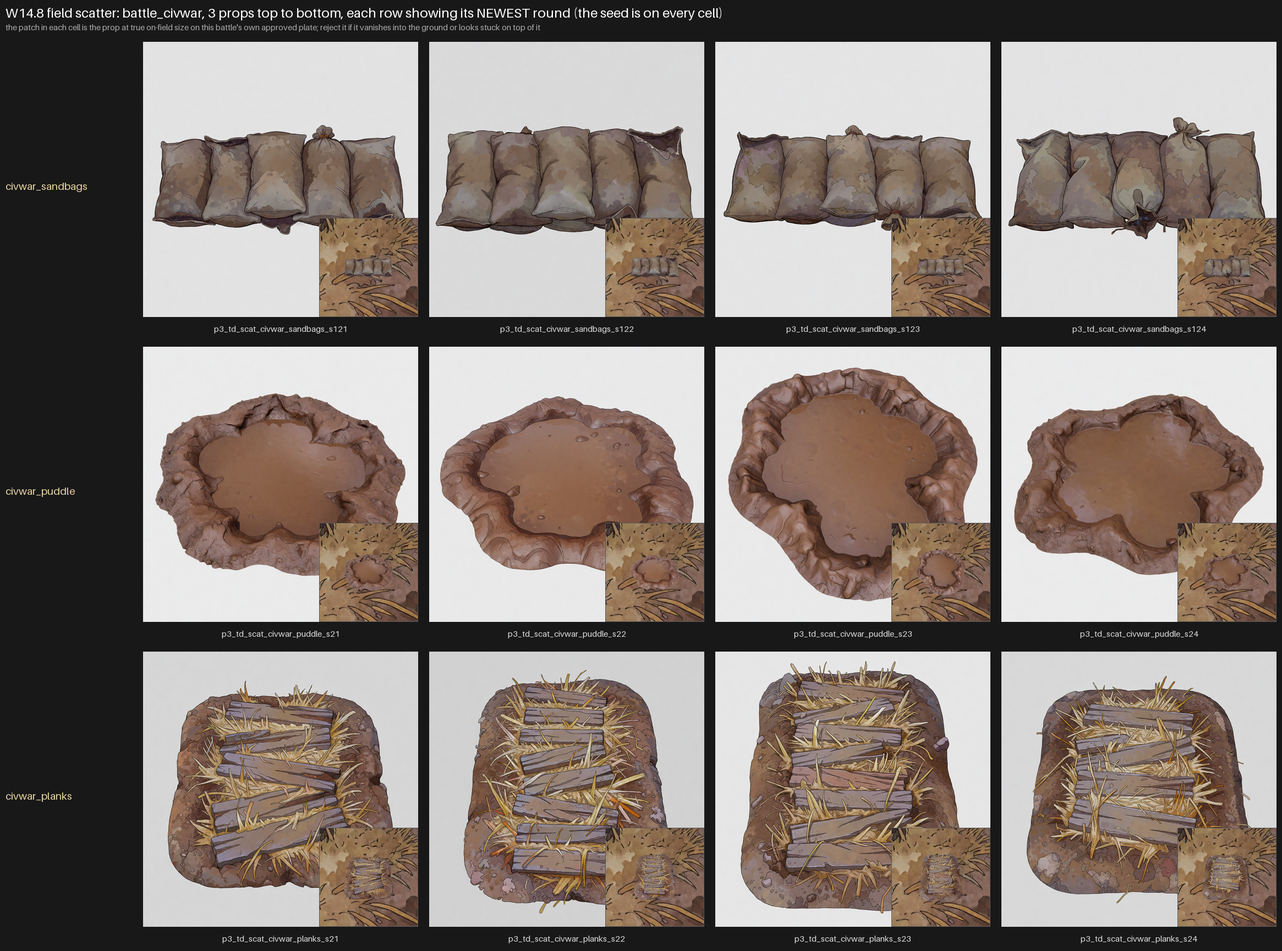
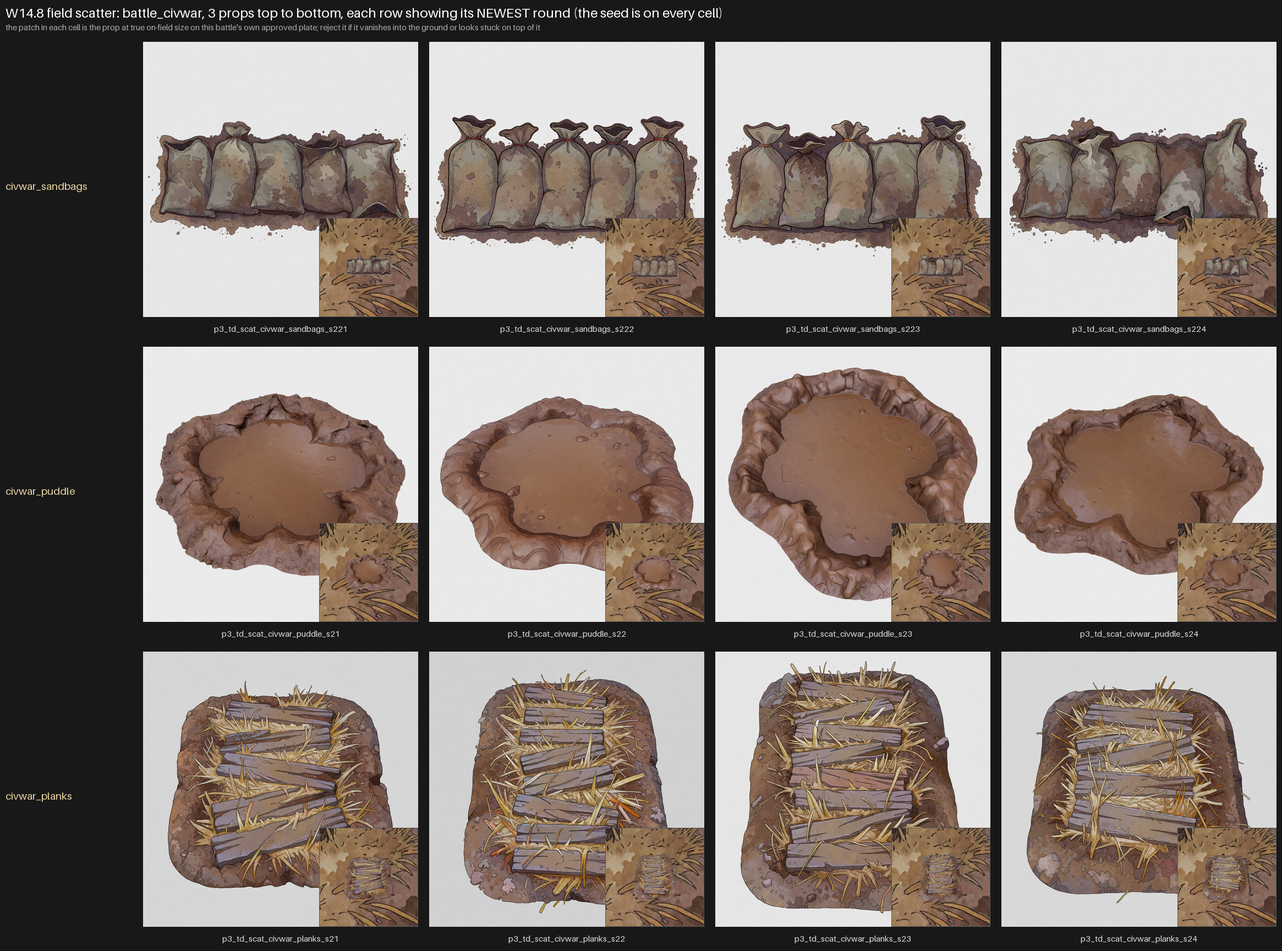
W14.8 scatter rounds 4-5: the subject change lands, and the warm prior surfaces twice
Round 4 applied the human ruling: the four cells that beat three camera strategies
stopped being single objects. The boulder is several mossy stones spread apart in
turf, the log is broken sections of a fallen tree, the hidden slab is dark scorched
shards, the hidden stump is charred branch pieces. All four dropped back to the plain
recipe every working prop in this class already uses (chunky form, the unit overhead
clause, no top-face and no orthographic clause) and all four rendered genuinely
overhead on the first try, four seeds out of four. A spread has no canonical profile
to fall back on, so it needs no camera help at all.

Round 5 cleaned up what round 4 exposed. With its camera fixed, hidden_stump rendered
glowing red-orange embers in every seed, on the plate whose whole identity is cold
pale green. That is the same warm prior that put lava in hidden_vent two rounds
earlier, in a different cell on the same scorched ground, so the fix did not
generalise on its own: the displacement has to be written into each core. Saying long
cold and dead, cold grey and black throughout, pale grey-white broken ends removed it.

All 21 rows now have a full four-seed set and every sheet is rebuilt. Cookbook §14
carries the transferable finding, including the part that cost the time: the family
was diagnosable at the first failure, since every prop that renders overhead is many
things and every prop that fails is one thing.

Changed region(s): [[0.1236, 0.125, 0.9888, 0.3125]]

diff --git a/insignificant-game/assets/pipeline/phase3_scatter_topdown_batch.py b/insignificant-game/assets/pipeline/phase3_scatter_topdown_batch.py
@@ -94,9 +94,10 @@ _ORTHO = ("photographed flat from straight above, orthographic, its outline draw
 # failing as an object, not by looking flat in prose.
 FLAT = {"scat_riot_scorch", "scat_riot_crate", "scat_hidden_vent"}
 
-# The solid objects that need `_TOP` as well, all of them round-1 camera failures.
-TOP = {"scat_field_rock", "scat_field_log", "scat_hidden_slab", "scat_hidden_stump",
-       "scat_civwar_sandbags"}
+# The solid objects that need `_TOP` as well. Only the sandbag row is left: the other four were
+# converted to spreads of parts in round 4 (human ruling) and a spread needs no camera help at all —
+# `_FORM` plus `_OVERHEAD`, the same recipe every working prop in this class already uses.
+TOP = {"scat_civwar_sandbags"}
 
 # id -> (parent battle type, subject core). The core carries the parent plate's material and colour
 # words; _TAIL carries camera, light and framing.
@@ -109,23 +110,28 @@ SCATTER = {
     "scat_tax_stump":   ("battle_tax", "a low sawn-off tree stump of pale dry wood, its cut face "
                                        "turned upward, thick roots spreading flat into brown earth"),
     # battle_field — trampled green turf, worn bare patches, clover, thin pale dust
-    "scat_field_rock":  ("battle_field", "a low broad grey boulder half sunk into the ground, its "
-                                         "wide upper face worn smooth and flat, patches of green "
-                                         "moss across it"),
-    # Round 1 read "fallen log lying flat" as a standing tree trunk. The axis is stated as a bounded
-    # pair of end points, which is the form that held 4/4 on the barrier cell where naming a run
-    # tapered every wall it touched (cookbook §14).
-    "scat_field_log":   ("battle_field", "a single fallen tree log lying flat on the ground, one "
-                                         "round sawn end near the top of the frame and the other "
-                                         "round sawn end near the bottom, split grey-brown bark "
-                                         "along it and green moss on its upper side"),
+    # SUBJECT CHANGED IN ROUND 4, not re-worded (human ruling). A single boulder failed three camera
+    # strategies in profile; several stones spread apart have no profile to fall back on. The two
+    # stone cells stay distinct by arrangement and setting: tax_stones is a cleared heap piled on dry
+    # soil, this is a loose spread sunk into turf.
+    "scat_field_rock":  ("battle_field", "several low grey stones of different sizes lying spread "
+                                         "apart from one another on the ground, each one half sunk "
+                                         "and worn smooth, green moss across their upper faces"),
+    # A single fallen log came back as a standing tree trunk under all three strategies, including
+    # the bounded-end-points form that held 4/4 on the barrier cell. Broken into sections it is a
+    # spread of parts, which is the shape this class renders correctly.
+    "scat_field_log":   ("battle_field", "several broken sections of a fallen tree lying flat and "
+                                         "spread apart on the ground, split grey-brown bark and "
+                                         "green moss along them, loose bark and twigs around them"),
     "scat_field_scrub": ("battle_field", "a low flat clump of green clover and coarse weeds "
                                          "spreading close to the ground, a few taller stems"),
     # battle_hidden — dark grey-green scorched ground, pale ash, faint green glow in the fissures
-    "scat_hidden_slab":  ("battle_hidden", "a single broken flat slab of dark grey-green scorched "
-                                           "stone lying part buried in the ground, its cracked "
-                                           "upper face turned up, fine pale ash gathered along the "
-                                           "edges where it meets the soil"),
+    # subject changed in round 4 with the other three; kept distinct from democracy_rubble by being
+    # dark, flat-shard and spread rather than pale, chunky and heaped
+    "scat_hidden_slab":  ("battle_hidden", "several broken flat shards of dark grey-green scorched "
+                                           "stone lying spread apart and part buried in the "
+                                           "ground, their cracked faces turned up, fine pale ash "
+                                           "gathered around them"),
     # Round 1 rendered molten orange lava in the crack: "fissure" plus "glow" plus scorched ground
     # is a volcanic prior, and the plate's own glow is cold pale green. The colour is now said twice
     # and cold is said outright, which is §8.3 rung 1 applied to a hue — occupy it, never deny it.
@@ -134,12 +140,18 @@ SCATTER = {
                                            "pale green luminous light lying deep down inside the "
                                            "crack, cool green and grey throughout, its broken "
                                            "outline ragged and uneven all the way around"),
-    # rewritten to mirror scat_tax_stump, the one stump that rendered genuinely overhead: the cut
-    # face is the subject and the roots spread flat away from it
-    "scat_hidden_stump": ("battle_hidden", "a low charred blackened tree stump sawn off close to "
-                                           "the ground, its flat charred cut face turned upward, "
-                                           "thick roots spreading flat away from it, fine pale ash "
-                                           "gathered around them"),
+    # Two rounds were spent mirroring scat_tax_stump, the one stump that did render overhead, and
+    # neither took: the exception stayed an exception. Round 4 changes the subject with the rest of
+    # the family and the burnt wood becomes fragments.
+    # Round 4 fixed the camera and exposed the same warm prior that put lava in scat_hidden_vent:
+    # burnt wood rendered with glowing red-orange embers in all four seeds, against a plate whose
+    # identity is cold and pale green. Round 5 says cold, grey and long dead outright, which is the
+    # displacement that worked on the vent.
+    "scat_hidden_stump": ("battle_hidden", "several charred blackened pieces of burnt branch and "
+                                           "split wood lying spread apart on the ground, long cold "
+                                           "and dead, cold grey and black throughout with "
+                                           "pale grey-white broken ends, fine pale ash drifted "
+                                           "over and around them"),
     # battle_riot — grey granite cobbles, soot smudges, pale scattered ash
     "scat_riot_rubble": ("battle_riot", "a spill of prised-up grey granite cobblestones lying loose "
                                         "in a low scatter, the bare hollow they came out of beside "

diff --git a/docs/image-assets-generation-orchestrator-cookbook.md b/docs/image-assets-generation-orchestrator-cookbook.md
@@ -621,3 +621,4 @@ correction on top of it, because this repo's docs describe current state, not ch
 | 2026-08-01 | **A border flood cannot key background that the SUBJECT encloses, and the pick gate cannot see what it leaves behind.** 60 of 67 top-down cells trapped plate-coloured background inside a drawn bow, between a sling strap and the fist holding it, or between missiles on a rail; it is invisible on the light-grey contact sheet the human picks from and ships as a glaring pale blob on a dark plate (archers era 1 carried three white paddles where its slings should be). The fix is a second cut at a **much tighter colour tolerance than the flood's** — trapped background is flat and exactly the plate colour, while pale subject material is shaded and reads slightly off it, so 25-against-60 removes the pockets while keeping white missiles and the sanctioned white hull disc, where 60 eats into them. **Re-measure the tolerance per class rather than inheriting it:** the same pass gains nothing on compact single objects with no closed loops and punched 12k px out of a grey bomb's own body, because a grey subject lit from above has highlights within tolerance of a grey plate. |
 | 2026-08-01 | **A long subject cannot be both wide and axis-aligned in a square frame; that is geometry, not wording.** Eight seeds across two opposed rounds on one barrier cell gave a clean split — every wide render landed ~40° off axis and every axis-aligned render came out a narrow single file — because pinning a segment's ends to the frame's top and bottom edges makes it span the full height, and modules sized to span it leave no width to spare. Stop wording rounds at that point and read the trade instead: the wide renders were wide because they were tilted enough to show the subject's faces, so the narrow one is often the honest overhead read. **Do state an axis when you need one, but only as a bounded pair of points** (two named end pieces near the top and bottom edges), never as a run — the bounded form landed 4/4 seeds within 0.7°, while "its length running from near the top of the frame down to near the bottom" tapered every wall it touched. |
 | 2026-08-02 | **A shared style clause that contradicts one subject in the class is resolved by the model inventing geometry, not by ignoring the clause.** A new prop class carried "a simplified chunky shape" in its tail, which is right for heaps, rims and craters and wrong for the one core asking for a flat burn on the ground: that cell came back as a ring of boulders around an ash bed, faithfully chunky and nothing like what was asked, and it also broke the design ruling that the class must never look like an obstacle. Split the form clause per subject family rather than per class (flat ground marks take "a simplified flat shape … lying flush with the ground with no height or relief") and **probe the family that fights the tail first**, because the cells that agree with the tail pass and tell you nothing. Related, same probe: a prop core must never name the ground it sits on — "burnt onto grey stone" produced stone objects, and the material is the plate's job. |
+| 2026-08-03 | **A single solid object with a canonical side silhouette cannot be pulled to an overhead camera by wording; a spread of parts needs no help at all.** One prop class split perfectly along that line: every heap, spill, scatter and ground mark rendered genuinely overhead first try, while a boulder, a slab, a crate, stacked sandbags and a "fallen log lying flat" all came back as three-quarter product shots (the log as a standing tree trunk) through three generations of three different strategies — the unit class's overhead clause, a top-face clause naming the upward surface as the dominant feature, and the battle plates' own "photographed flat from straight above, orthographic" plus a footprint register shift. Only the last fixed anything, and only the two subjects that were already becoming multi-part (a sandbag row said to lie in one single layer, a crate rewritten as loose boards with no box left standing). **The reliable lever is a subject change: make the prop several things instead of one thing**, because a rock has one silhouette the model knows it by and from overhead it does not look like that silhouette, while a scatter of stones has no canonical profile to lose. Recognise the family at the FIRST failure and take the subject question to the human then, not after three rounds. |
